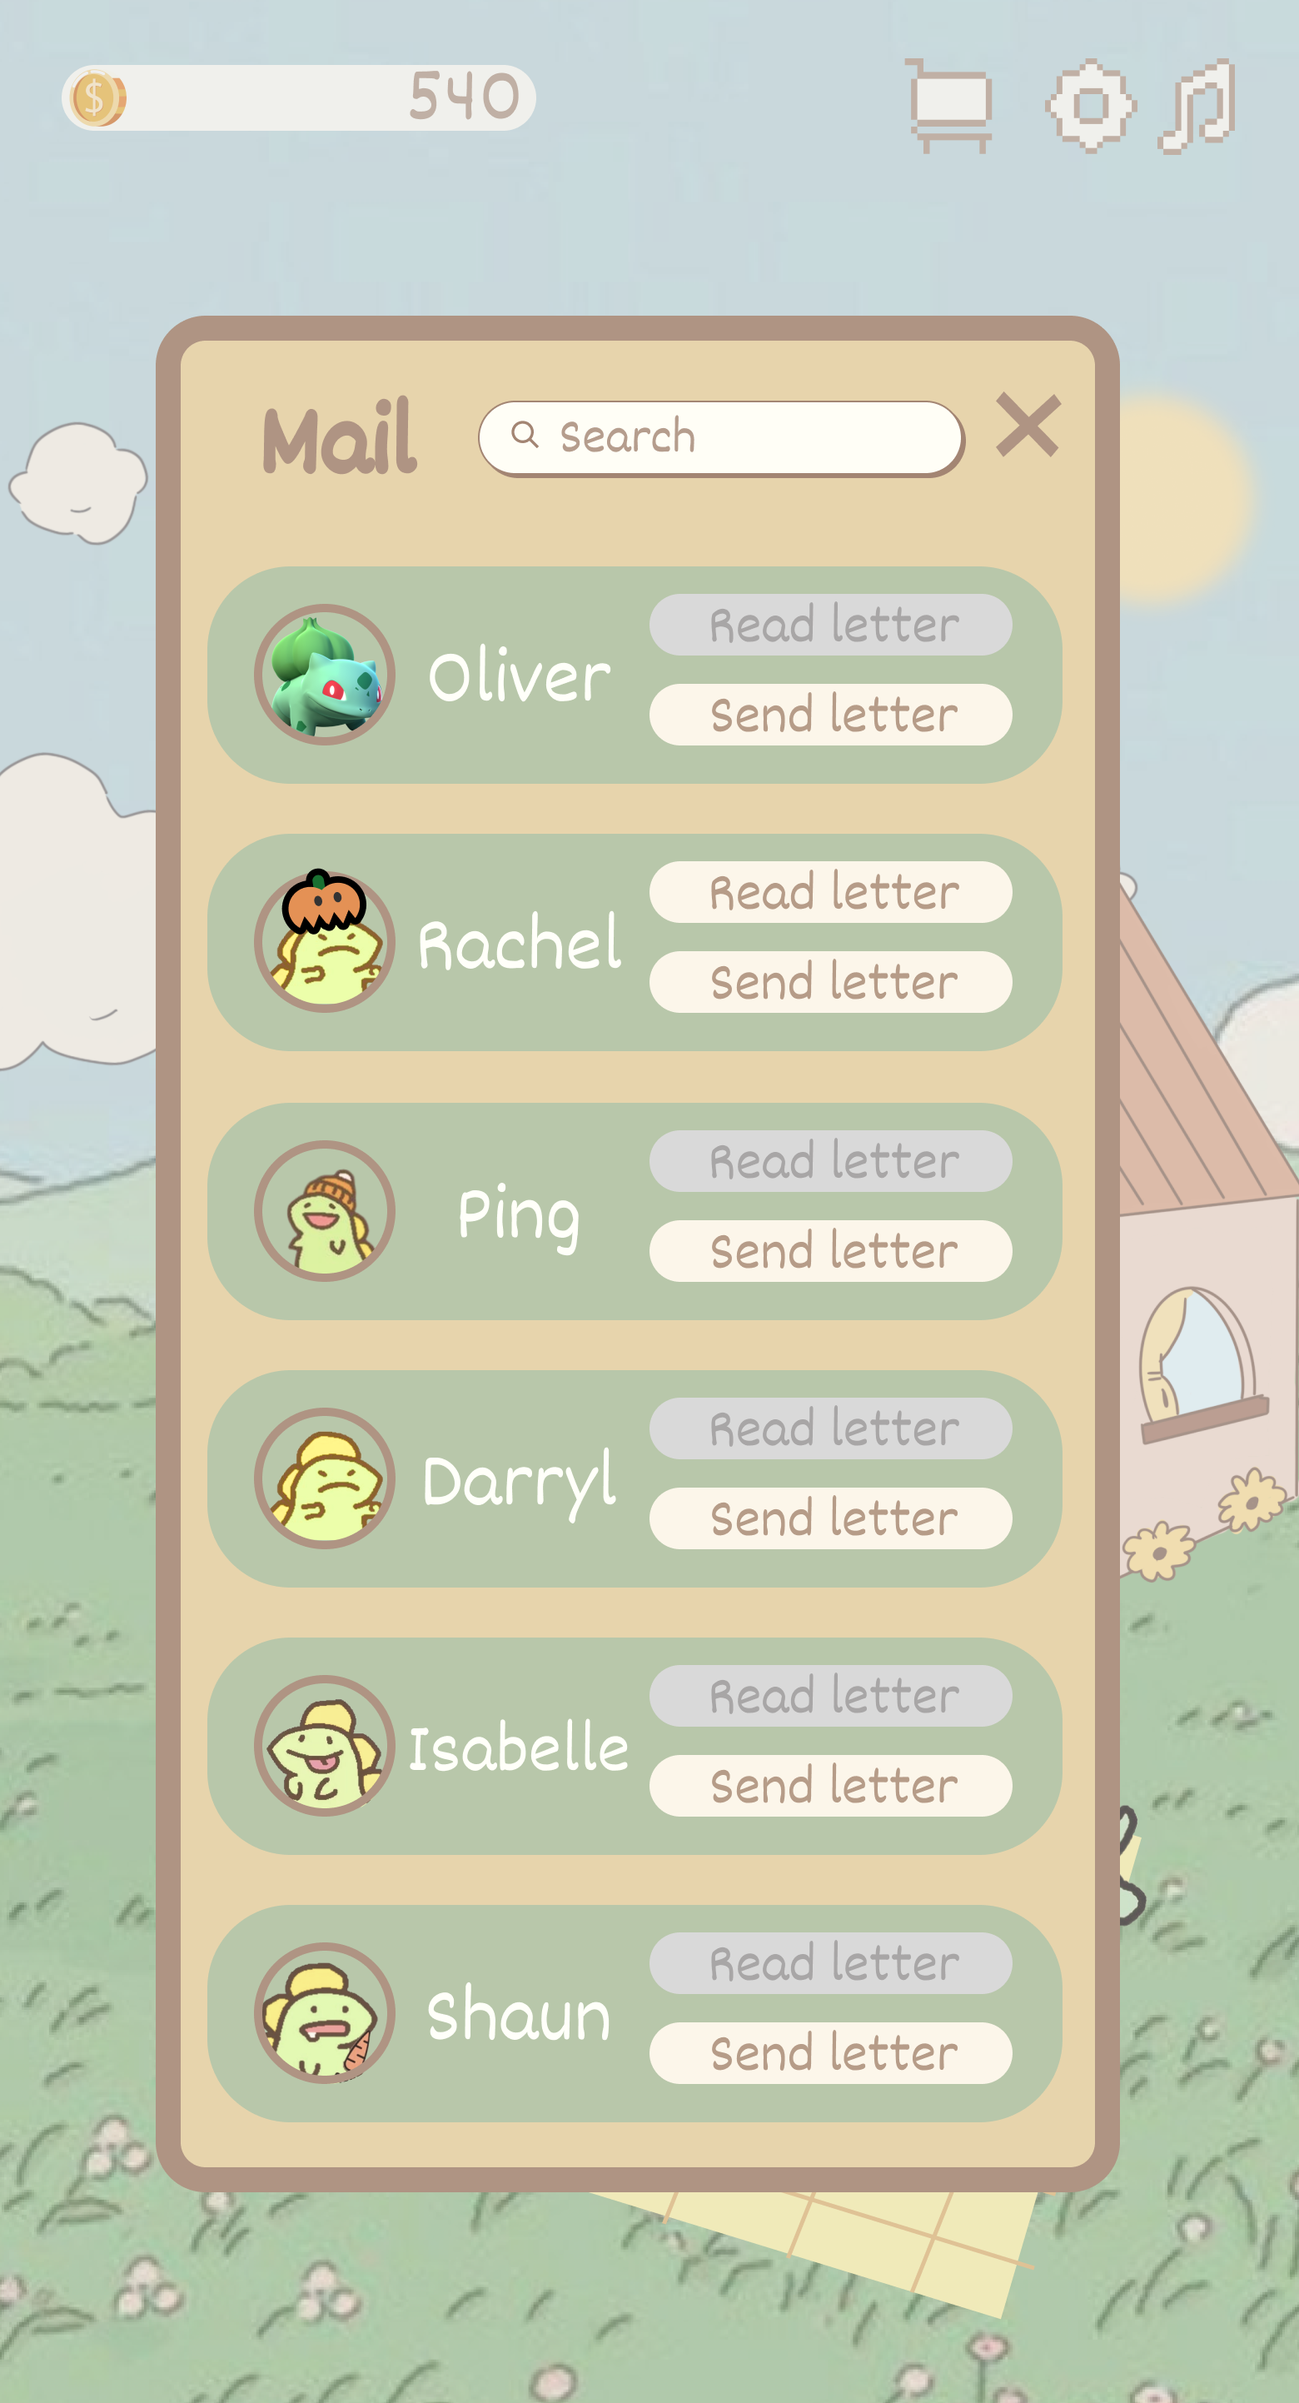
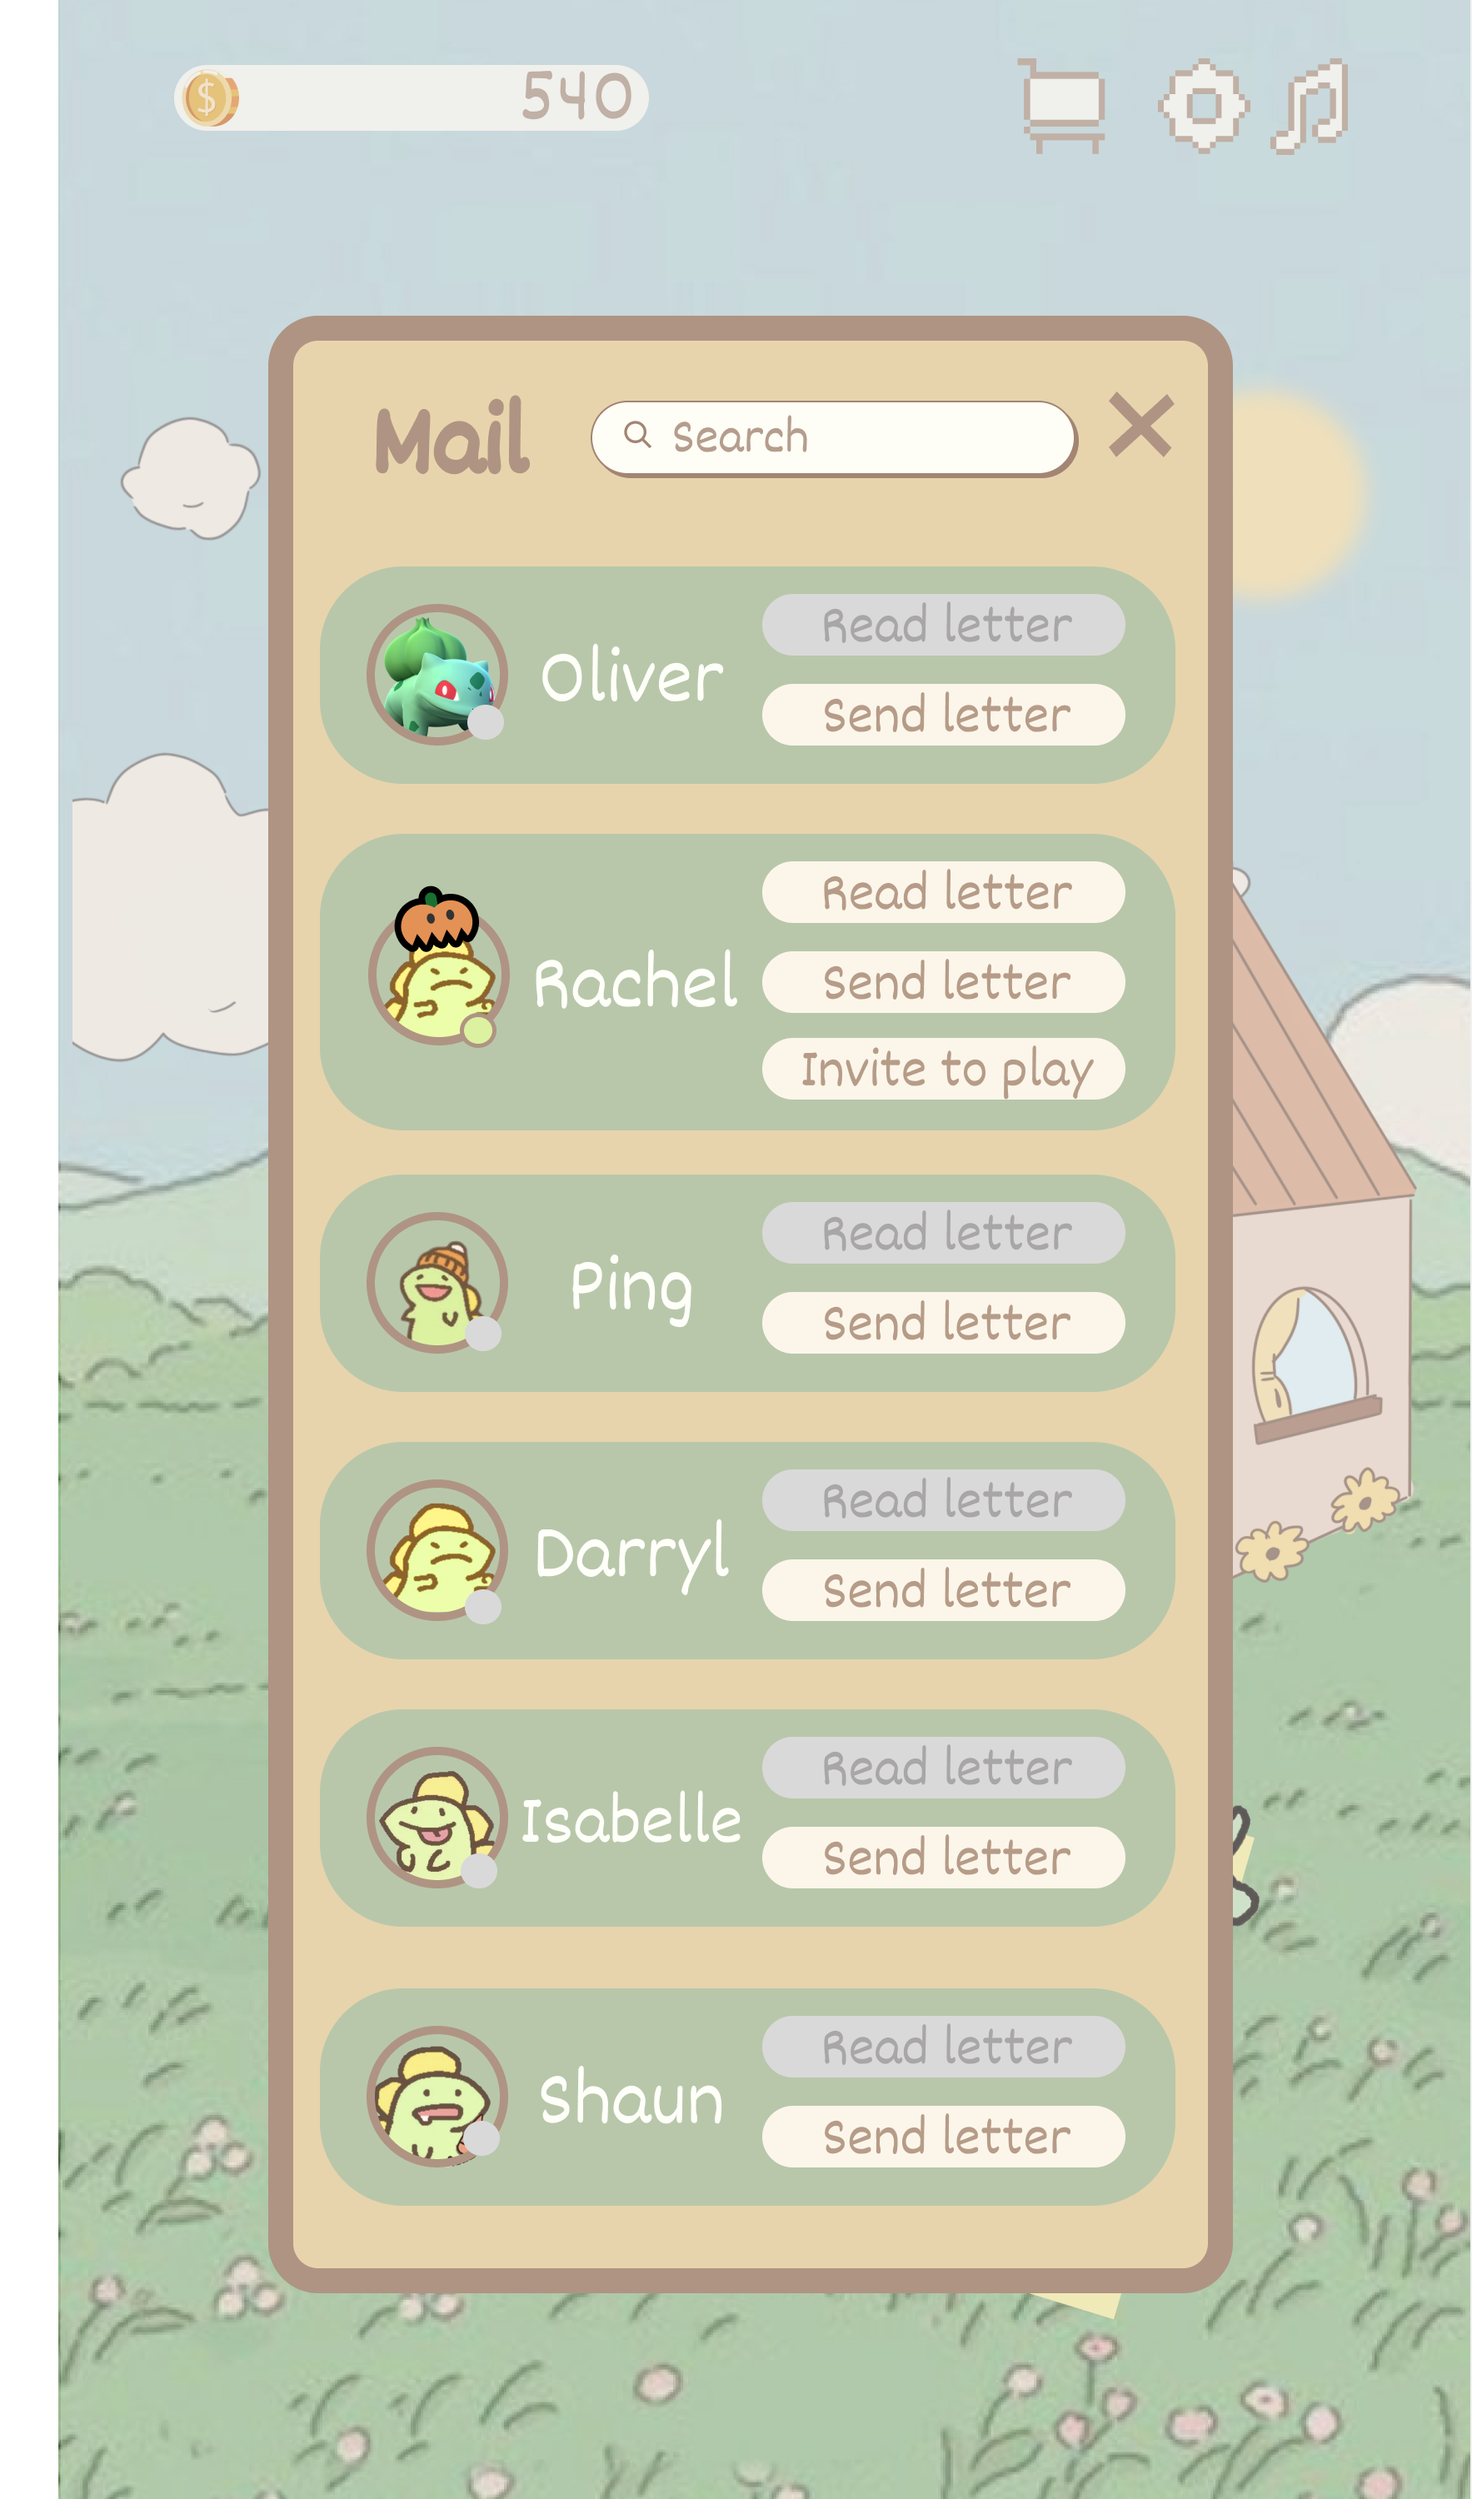
added games

diff --git a/screens/Games.js b/screens/Games.js
@@ -1,0 +1,108 @@
+import * as React from "react";
+import { ImageBackground, View, Text, StyleSheet, Image } from "react-native";
+import { NavigationContainer, useNavigation } from "@react-navigation/native";
+import { createStackNavigator } from "@react-navigation/stack";
+import { FlatList, TouchableOpacity } from "react-native-gesture-handler";
+import FontAwesome from "react-native-vector-icons/FontAwesome";
+
+function BackButton() {
+  const navigation = useNavigation();
+  return (
+    <TouchableOpacity
+      onPress={() => {
+        navigation.navigate("Garden");
+      }}
+    >
+      <Image
+        style={{ width: 90, height: 42, marginLeft: 5 }}
+        source={require("../images/back.png")}
+      />
+    </TouchableOpacity>
+  );
+}
+export default function Games({ navigation }) {
+  return (
+    <ImageBackground
+      source={require("../images/Games/bg.png")}
+      style={styles.backgroundImage}
+    >
+      <View style={styles.backButton}>
+        <BackButton />
+      </View>
+      
+      <View style={styles.container}>
+        <ImageBackground
+          source={require("../images/Games/games.png")}
+          style={styles.itemsImage}
+        >
+          {/* <TouchableOpacity
+            style={styles.tab}
+            onPress={() => navigation.navigate("Pumpkin")}
+          ></TouchableOpacity> */}
+          {/* <View style={styles.itemContainer}>
+            <TouchableOpacity
+              style={styles.item}
+              onPress={() => navigation.navigate("Pumpkin")}
+            ></TouchableOpacity>
+            <TouchableOpacity
+              style={styles.item}
+              onPress={() => navigation.navigate("Saw")}
+            ></TouchableOpacity>
+            <TouchableOpacity
+              style={styles.item}
+              onPress={() => navigation.navigate("Halo")}
+            ></TouchableOpacity>
+            <TouchableOpacity
+              style={styles.item}
+              onPress={() => navigation.navigate("Witch")}
+            ></TouchableOpacity>
+          </View> */}
+      </ImageBackground>
+      </View>
+    </ImageBackground>
+  );
+}
+
+const styles = StyleSheet.create({
+  backgroundImage: {
+    flex: 1,
+    resizeMode: "cover",
+    width: 390,
+    height: 900,
+  },
+  tab: {
+    backgroundColor: "rgba(0,0,0,0.1)",
+    width: 90,
+    height: 30,
+    marginLeft: 10,
+    marginTop: 10,
+  },
+  backButton: {
+    marginTop: 100,
+  },
+  container: {
+    alignItems: "center",
+    marginTop: 50,
+  },
+  itemsImage: {
+    width: 370,
+    height: 640,
+    marginRight: 5,
+  },
+  itemContainer: {
+    flexDirection: "row",
+    flexWrap: "wrap",
+    // marginHorizontal: "auto",
+    width: 390,
+    marginTop: 50,
+    marginLeft: 45,
+  },
+  item: {
+    width: 140,
+    height: 140,
+    backgroundColor: "rgba(0,0,0,0.1)",
+    // borderWidth: 1,
+    marginRight: 30,
+    marginBottom: 30,
+  },
+});

diff --git a/App.js b/App.js
@@ -30,6 +30,7 @@ import WritingReview from "./screens/Review/WritingReview";
 import ReadingReview from "./screens/Review/ReadingReview";
 import Congratulations from "./screens/Review/Congratulations";
 import Loading from  "./screens/Loading";
+import Games from "./screens/Games";
 import { useFonts } from "expo-font";
 
 function BackButton() {
@@ -105,6 +106,7 @@ function MyStack() {
       <Stack.Screen name="WritingReview" component={WritingReview}/>
       <Stack.Screen name="ReadingReview" component={ReadingReview}/>
       <Stack.Screen name="Congratulations" component={Congratulations}/>
+      <Stack.Screen name="Games" component={Games} options={{headerShown: false}}/>
       <Stack.Screen name="InventoryFlamingo" component={InventoryFlamingo} />
       <Stack.Screen name="InventoryPlague" component={InventoryPlague} />
       <Stack.Screen name="InventoryMask" component={InventoryMask} />

diff --git a/screens/Review/Mail.js b/screens/Review/Mail.js
@@ -23,6 +23,12 @@ export default function Mail({ navigation }) {
               onPress={() => navigation.navigate("WritingReview")}
             ></TouchableOpacity>
           </View>
+          <View style={styles.invite}>
+            <TouchableOpacity
+              style={styles.items}
+              onPress={() => navigation.navigate("Games")}
+            ></TouchableOpacity>
+          </View>
       </View>
     </ImageBackground>
   );
@@ -64,6 +70,14 @@ const styles = StyleSheet.create({
         marginBottom: 20,
         marginLeft: 120,
         marginTop: -90,
+    },
+    invite: {
+      width: 120,
+      height: 20,
+      backgroundColor: "rgba(10,0,0,0.1)",
+      marginBottom: 20,
+      marginLeft: 120,
+      marginTop: -5,
     },
   });
   
